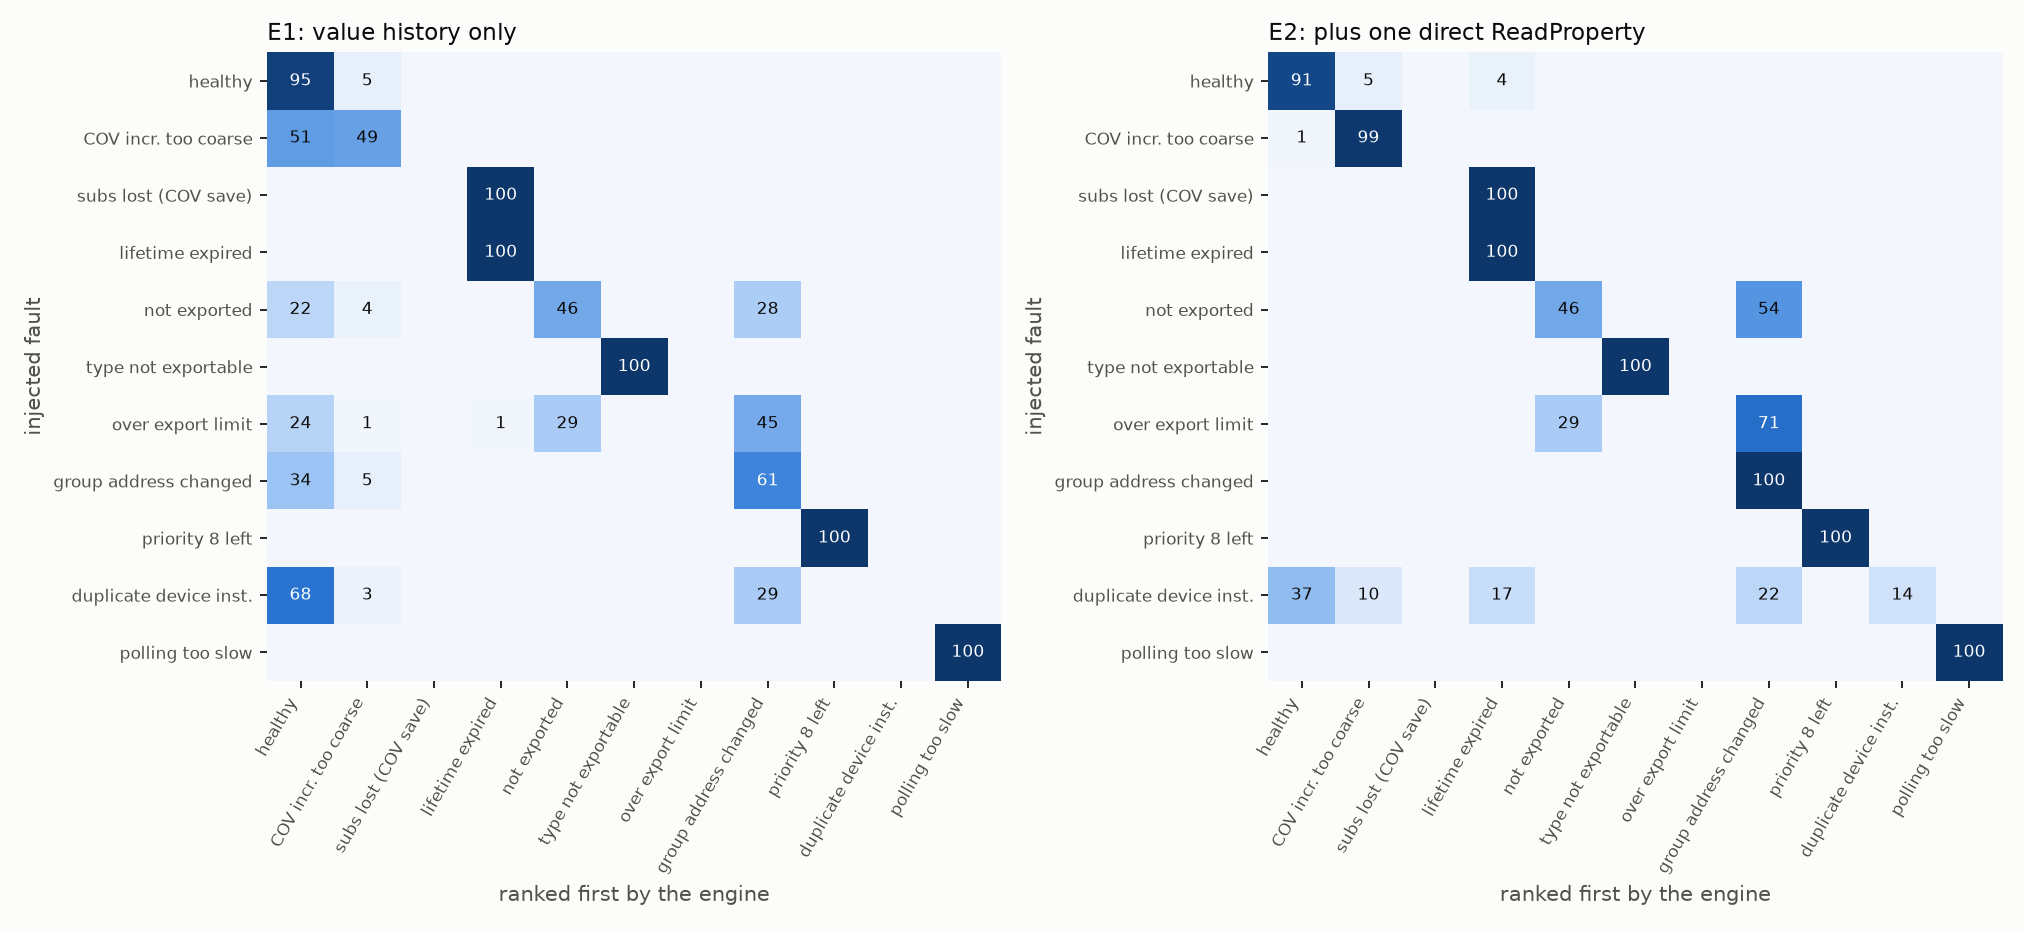
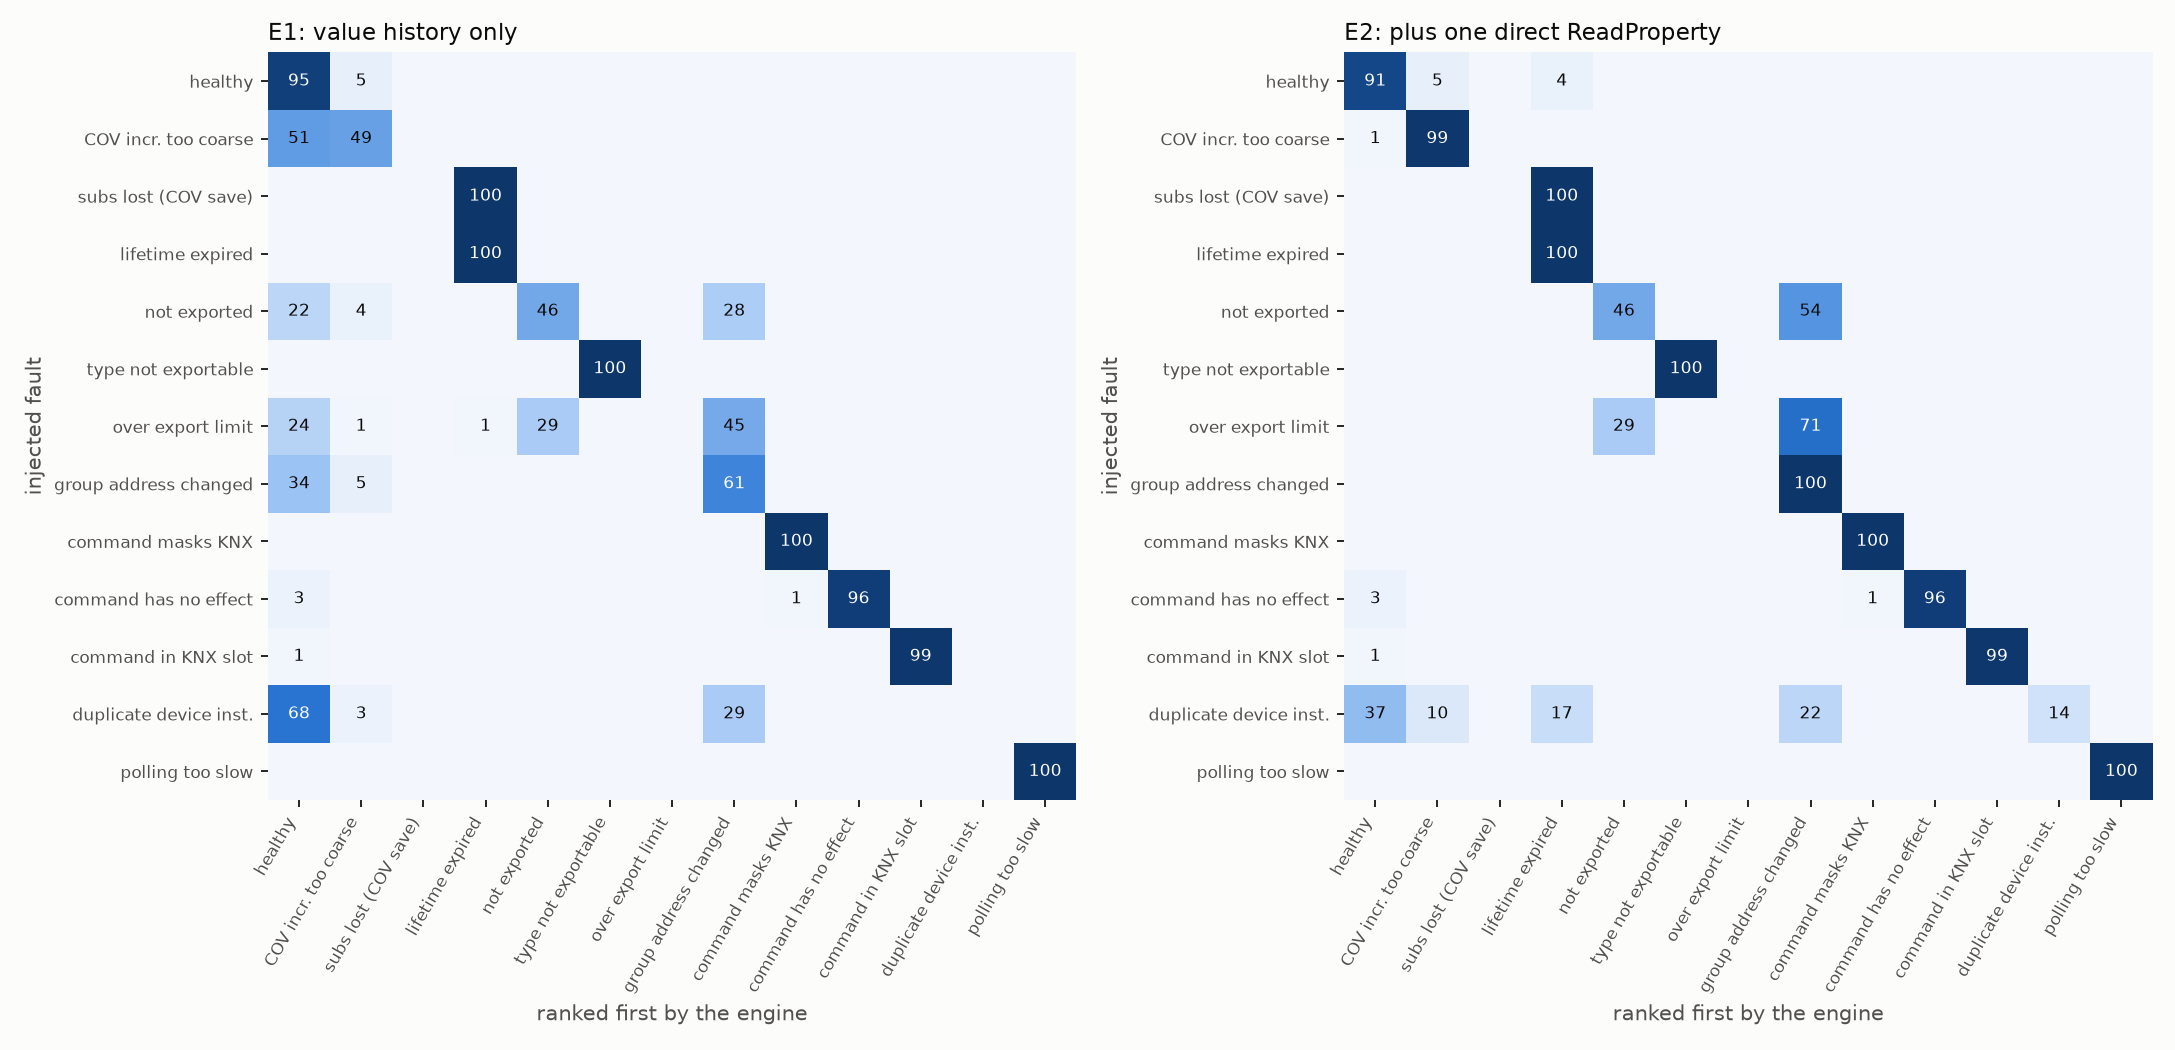
Results regenerated with the corrected priority model

diff --git a/results/tables.md b/results/tables.md
@@ -16,16 +16,18 @@ Generated by `scripts/run_all.py` from `results/summary.json`. Simulated.
 | TYPE_NOT_EXPORTABLE | 100 / 0 | 100 / 0 | 100 / 0 | 100 / 100 | E4 |
 | OVER_LIMIT | 0 / 0 | 0 / 0 | 100 / 0 | 100 / 100 | E4 |
 | GA_CHANGED | 61 / 0 | 100 / 0 | 100 / 100 | 100 / 100 | E3 |
-| PRIORITY_STUCK | 100 / 0 | 100 / 0 | 100 / 100 | 100 / 100 | E3 |
+| CMD_MASKS_KNX | 100 / 0 | 100 / 0 | 100 / 100 | 100 / 100 | E3 |
+| CMD_NO_EFFECT | 96 / 0 | 96 / 0 | 100 / 100 | 100 / 100 | E3 |
+| CMD_SAME_SLOT | 99 / 0 | 99 / 0 | 100 / 96 | 100 / 100 | E3 |
 | DUP_DEVICE | 0 / 0 | 14 / 0 | 100 / 100 | 100 / 100 | E3 |
 | POLL_TOO_SLOW | 100 / 0 | 100 / 0 | 100 / 94 | 100 / 100 | E3 |
 
 | Level | Mean right first (%) | Certain verdicts right | Certain verdicts wrong |
 |---|---|---|---|
-| E1 | 59 | 0 | 0 |
-| E2 | 68 | 0 | 0 |
-| E3 | 99 | 494 | 0 |
-| E4 | 100 | 1099 | 0 |
+| E1 | 65 | 0 | 0 |
+| E2 | 73 | 0 | 0 |
+| E3 | 100 | 690 | 0 |
+| E4 | 100 | 1299 | 0 |
 
 ## T2. Look-alikes: injected fault ranked as another class in >= 20 % of runs
 
@@ -50,19 +52,21 @@ Generated by `scripts/run_all.py` from `results/summary.json`. Simulated.
 
 ## T3. Confusion matrix at E1 (rows injected, columns ranked first)
 
-| injected \ said | 1 | 2 | 3 | 4 | 5 | 6 | 7 | 8 | 9 | 10 | 11 |
-|---|---|---|---|---|---|---|---|---|---|---|---|
-| 1 HEALTHY | 95 | 5 |  |  |  |  |  |  |  |  |  |
-| 2 COV_INC_COARSE | 51 | 49 |  |  |  |  |  |  |  |  |  |
-| 3 COV_SUB_LOST_SAVE |  |  |  | 100 |  |  |  |  |  |  |  |
-| 4 COV_LIFETIME_EXPIRED |  |  |  | 100 |  |  |  |  |  |  |  |
-| 5 NOT_EXPORTED | 22 | 4 |  |  | 46 |  |  | 28 |  |  |  |
-| 6 TYPE_NOT_EXPORTABLE |  |  |  |  |  | 100 |  |  |  |  |  |
-| 7 OVER_LIMIT | 24 | 1 |  | 1 | 29 |  |  | 45 |  |  |  |
-| 8 GA_CHANGED | 34 | 5 |  |  |  |  |  | 61 |  |  |  |
-| 9 PRIORITY_STUCK |  |  |  |  |  |  |  |  | 100 |  |  |
-| 10 DUP_DEVICE | 68 | 3 |  |  |  |  |  | 29 |  |  |  |
-| 11 POLL_TOO_SLOW |  |  |  |  |  |  |  |  |  |  | 100 |
+| injected \ said | 1 | 2 | 3 | 4 | 5 | 6 | 7 | 8 | 9 | 10 | 11 | 12 | 13 |
+|---|---|---|---|---|---|---|---|---|---|---|---|---|---|
+| 1 HEALTHY | 95 | 5 |  |  |  |  |  |  |  |  |  |  |  |
+| 2 COV_INC_COARSE | 51 | 49 |  |  |  |  |  |  |  |  |  |  |  |
+| 3 COV_SUB_LOST_SAVE |  |  |  | 100 |  |  |  |  |  |  |  |  |  |
+| 4 COV_LIFETIME_EXPIRED |  |  |  | 100 |  |  |  |  |  |  |  |  |  |
+| 5 NOT_EXPORTED | 22 | 4 |  |  | 46 |  |  | 28 |  |  |  |  |  |
+| 6 TYPE_NOT_EXPORTABLE |  |  |  |  |  | 100 |  |  |  |  |  |  |  |
+| 7 OVER_LIMIT | 24 | 1 |  | 1 | 29 |  |  | 45 |  |  |  |  |  |
+| 8 GA_CHANGED | 34 | 5 |  |  |  |  |  | 61 |  |  |  |  |  |
+| 9 CMD_MASKS_KNX |  |  |  |  |  |  |  |  | 100 |  |  |  |  |
+| 10 CMD_NO_EFFECT | 3 |  |  |  |  |  |  |  | 1 | 96 |  |  |  |
+| 11 CMD_SAME_SLOT | 1 |  |  |  |  |  |  |  |  |  | 99 |  |  |
+| 12 DUP_DEVICE | 68 | 3 |  |  |  |  |  | 29 |  |  |  |  |  |
+| 13 POLL_TOO_SLOW |  |  |  |  |  |  |  |  |  |  |  |  | 100 |
 
 ## T4. COV increment sweep (one object, 24 h, client does not renew)
 
@@ -145,14 +149,16 @@ Shortest polling interval (of 10, 30, 60, 120, 300, 600, 900, 1800, 3600 s) at w
 
 ## T8. After the gateway's COV settings are saved (150 objects, 6 h, save at 2 to 3 h)
 
-| Client renewal | Mean stale (min) | Longest stale (min) | KNX changes after the save never reported (%) | Reset BMS command unseen, mean (min) | Renewal traffic (msg/s) |
-|---|---|---|---|---|---|
-| 300 s | 2.0 | 4.8 | 2 | 3.1 | 1.000 |
-| 900 s | 6.4 | 14.7 | 4 | 8.3 | 0.333 |
-| 1800 s | 12.8 | 29.7 | 8 | 16.6 | 0.167 |
-| 3600 s | 24.4 | 59.7 | 14 | 30.1 | 0.083 |
-| 14400 s | 75.9 | 119.7 | 43 | 90.1 | 0.021 |
-| never (lifetime 0) | 189.2 | 239.7 | 100 | 210.1 | 0.000 |
+The BMS holds a command at priority 8 on one setpoint; the controller writes KNX values to slot 16. The save cancels every subscription and empties every priority array. The BMS never writes its command again, so the command stays lost for good; the column says how long the BMS still believes it holds. Last two columns: what the BMS gets at its first renewal after the save.
+
+| Client renewal | Mean stale (min) | Longest stale (min) | KNX changes after the save never reported (%) | BMS believes its command holds, mean (min) | Renewal traffic (msg/s) | Commanded point at first renewal: frozen Relinquish_Default (% of runs) | All points: first renewal delivers a wrong frozen value (%) |
+|---|---|---|---|---|---|---|---|
+| 300 s | 2.0 | 4.8 | 2 | 3.1 | 1.000 | 100 | 55 |
+| 900 s | 6.4 | 14.7 | 4 | 8.3 | 0.333 | 100 | 40 |
+| 1800 s | 12.8 | 29.7 | 8 | 16.6 | 0.167 | 95 | 27 |
+| 3600 s | 24.4 | 59.7 | 14 | 30.1 | 0.083 | 75 | 18 |
+| 14400 s | 75.9 | 119.7 | 43 | 90.1 | 0.021 | 0 | 6 |
+| never (lifetime 0) | 189.2 | 239.7 | 100 | 210.1 | 0.000 | - | - |
 
 ## T9. Model check: COV on a random walk
 
@@ -175,10 +181,33 @@ Mean time to move by the increment a from the last report is a^2 / sigma^2.
 | temp_sensor_delta_0.2K | 0 | 10 | 60 | 4 |
 | switch_gap_300s | 67 | 3600 | 600 | 9 |
 
-Diagnosis with a different window length (mean right-first share over 11 classes, %):
+Diagnosis with a different window length (mean right-first share over 13 classes, %):
 
 | Window | E1 | E2 | E3 | E4 | Certain wrong |
 |---|---|---|---|---|---|
-| 4 h (base) | 59 | 68 | 99 | 100 | 0 |
-| 1h (40 runs per class) | 60 | 64 | 100 | 100 | 0 |
-| 8h (40 runs per class) | 64 | 73 | 99 | 100 | 0 |
+| 4 h (base) | 65 | 73 | 100 | 100 | 0 |
+| 1h (40 runs per class) | 64 | 67 | 100 | 100 | 0 |
+| 8h (40 runs per class) | 69 | 77 | 99 | 100 | 0 |
+
+## T11. Present_Value on the gateway itself after a COV settings save
+
+Same installations as T8. After the save every slot is empty, so Present_Value is the frozen Relinquish_Default (the value at the first read, at commissioning) until the object's next KNX telegram. Wrong = differs from the value on KNX. A polling client reads exactly this.
+
+| Signal | Objects | Wrong right after the save (%) | Time wrong, mean (min) | Time wrong, longest (min) | Still wrong at the window end (% of wrong) |
+|---|---|---|---|---|---|
+| temperature | 1045 | 98 | 9.4 | 59.4 | 0 |
+| power | 292 | 100 | 2.9 | 23.3 | 0 |
+| switch | 1061 | 44 | 13.4 | 95.6 | 0 |
+| setpoint | 602 | 73 | 81.9 | 239.7 | 11 |
+| all | 3000 | 74 | 23.8 | - | - |
+
+The commanded setpoint: wrong after the save in 100 % of runs, for 47.2 min on average (BACnet shows the commissioning value while KNX still holds the command).
+
+## T12. Open point O2: "at least" or "more than" the increment
+
+Increment equal to the sensor's send step. Share of KNX changes that each reading of the rule reports.
+
+| Signal | Increment | Changes | Reported, at least the increment (model) (%) | Reported, more than the increment (%) |
+|---|---|---|---|---|
+| temperature | 0.1 | 2648 | 100 | 56 |
+| power | 10 | 11988 | 100 | 90 |
